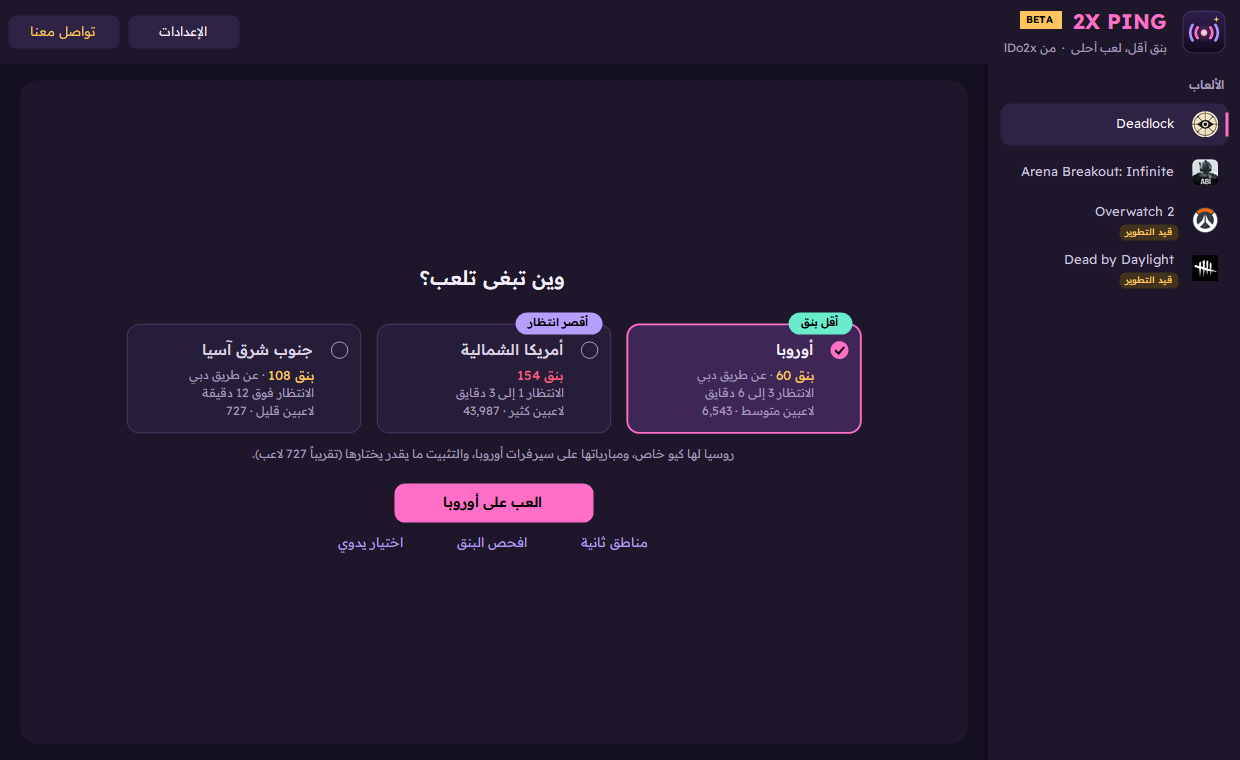
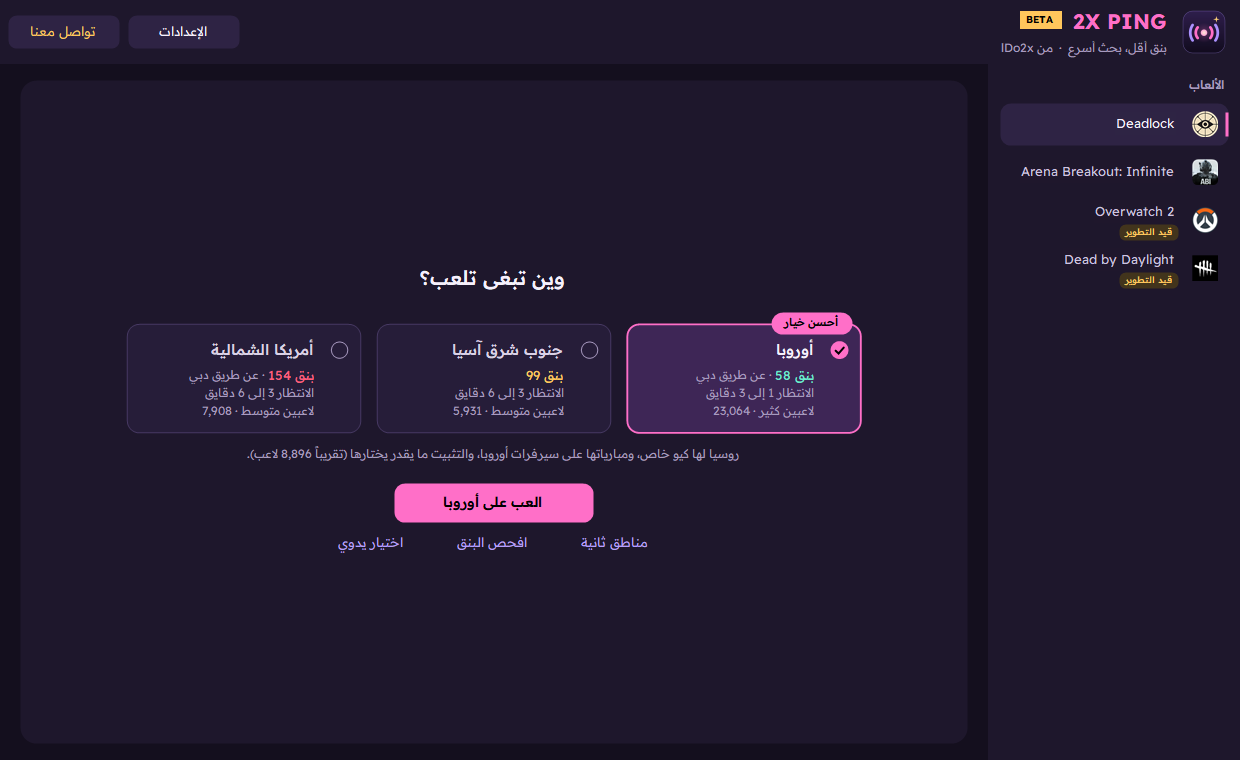
GitHub page for v0.12.0: fresh screenshots, social preview, README match reports row, roadmap
Screenshots are offscreen renders of the main window (Deadlock, simple layout) from a
harness with no network, no processes and a scratch data folder.

diff --git a/docs/social/social-preview.html b/docs/social/social-preview.html
@@ -55,7 +55,7 @@
   <span class="dot" style="left:30px;top:300px"></span><span class="dot" style="left:1010px;top:610px"></span>
 
   <div class="shot"><img src="../screenshot-ar.png" alt=""></div>
-  <div class="chip">مثبّت على فرانكفورت · <span dir="ltr">78 ms</span></div>
+  <div class="chip">مثبّت على أوروبا · <span dir="ltr">58 ms</span></div>
 
   <div class="left">
     <div class="brand">
@@ -66,8 +66,8 @@
     <div class="en">Lower ping, faster queues.</div>
     <div class="games">
       <!-- only the games released in the public version -->
-      <img src="../../assets/games/deadlock.png" alt=""><img src="../../assets/games/overwatch.png" alt="">
-      <img src="../../assets/games/dbd.png" alt=""><img src="../../assets/games/abi.png" alt="">
+      <img src="../../assets/games/deadlock.png" alt=""><img src="../../assets/games/abi.png" alt="">
+      <img src="../../assets/games/overwatch.png" alt=""><img src="../../assets/games/dbd.png" alt="">
     </div>
     <div class="foot"><b>Free</b> · Windows 10/11 · Arabic &amp; English · by <b>lDo2x</b></div>
   </div>

diff --git a/ROADMAP.md b/ROADMAP.md
@@ -3,17 +3,22 @@
 الخطة قابلة للتغيير حسب ملاحظات اللاعبين، وتقدر تصوّت أو تقترح في [Discussions](../../discussions).
 Plans change based on player feedback. Vote or suggest in [Discussions](../../discussions).
 
-## الحين: 0.11 Beta | Now
+## الحين: 0.12 Beta | Now
 - [x] فحص البنق | Ping test
+- [x] شاشة رئيسية أبسط ببطاقة وحدة تقولك وش يصير | A simpler main screen with one status card
 - [x] اختيار السيرفرات في Deadlock وOverwatch 2 وDead by Daylight | Server picker for Deadlock, Overwatch 2 and Dead by Daylight
-- [x] «على أي سيرفر أنا؟» يتحدّث لحاله | "Which server am I on?" updates by itself
+- [x] تثبيت Deadlock صارم يعرف أقصر طريق (مثلاً عن طريق دبي)، والبطاقة تقولك بنقك المتوقع | Strict, route-aware Deadlock lock (e.g. via Dubai), with the expected ping on the card
+- [x] «وين ألعب؟» بصدق، ومع `-condebug` يسمّي سيرفر Deadlock الحقيقي | Honest "where am I playing", naming Deadlock's real datacenter with `-condebug`
+- [x] تقرير كل مباراة يوصلنا لحاله | Automatic match reports
 - [x] اكتشاف المشاكل وإرسالها تلقائي | Problems detected and reported automatically
-- [x] عدد اللاعبين ووقت المباراة (Deadlock) | Player numbers and match time (Deadlock)
-- [x] تحديث بضغطة | One-click updates
-- [x] BOOST عبر وسيط خاص | Relay BOOST through your own VPS
+- [x] عدد لاعبين واقعي حسب وقت اليوم، ووقت الانتظار (Deadlock) | Realistic player numbers by time of day, and wait time (Deadlock)
+- [x] أخف على الجهاز والنت | Lighter on your PC and internet
+- [x] تحديث بضغطة، وأأمن (يرجّع النسخة القديمة لو صار خطأ) | One-click updates, safer (the old version is put back if anything fails)
+- [x] تسريع عن طريق وسيط خاص | Relay speed-up through your own VPS
 
 ## قريباً: 1.0 | Next
-- [ ] إصلاح المشاكل اللي توصلنا من البلاغات التلقائية ومن المختبرين | Fix the problems reported automatically and by testers
+- [ ] إصلاح المشاكل اللي توصلنا من البلاغات وتقارير المباريات ومن المختبرين | Fix the problems found in automatic reports, match reports and by testers
+- [ ] نطلّع أوفرواتش 2 وديد باي دايلايت من «قيد التطوير» | Take Overwatch 2 and Dead by Daylight out of "in development"
 - [ ] قائمة سيرفرات Arena Breakout واختيار سيرفراتها | Arena Breakout server list and server picker
 - [ ] نرجّع الألعاب الثانية بعد ما نتأكد منها: CS2، Dota 2، Valorant، Fortnite، PUBG، Apex، Rocket League | Bring back the other games once verified
 - [ ] تشغيل تلقائي لما تفتح اللعبة | Auto-start when a game launches

diff --git a/README.md b/README.md
@@ -41,8 +41,9 @@
 | ✦ وين تبغى تلعب؟ | بطاقة وحدة تعرض لك المناطق بالبنق ووقت الانتظار وعدد اللاعبين، وزر «العب على ...» يثبّتك عليها |
 | 📶 افحص البنق | بنق كل منطقة في ثانيتين ثلاث، وفي الوضع المتقدم التذبذب والفقد لكل سيرفر |
 | 🔒 تثبيت السيرفرات | في **Deadlock** (و**Overwatch 2** و**Dead by Daylight** قيد التطوير: شغّالين، بس لسا نختبرهم): تختار المناطق اللي تبغاها، والباقي ينحجب |
-| 🧭 تثبيت ذكي في Deadlock | يعرف أقصر طريق لك لشبكة Valve (مثلاً عن طريق دبي)، ولو التثبيت بيرفع بنقك يقولك كم قبل ما تثبّت |
+| 🧭 تثبيت ذكي في Deadlock | يعرف أقصر طريق لك لشبكة Valve (مثلاً عن طريق دبي)، ولو التثبيت بيرفع بنقك يقولك كم قبل ما تثبّت، وبعد التثبيت البطاقة تقولك بنقك المتوقع (مثلاً «تقريباً 58 عن طريق دبي») |
 | ✅ وين أنا دحين؟ | وإنت داخل المباراة، البطاقة تقولك على أي منطقة إنت، وهل هي من اختيارك |
+| 📝 تقرير كل مباراة لحاله | بعد دقيقة من بداية المباراة يرسل تقرير قصير (البنق المتوقع والحقيقي، ووين كانت المباراة) عشان نتأكد إن التثبيت يوفي بوعده. ما عليك تسوي شي |
 | 🛠 يكتشف المشاكل لحاله | لو صار خطأ (زي إنك طحت على سيرفر برا اختيارك) يوصلنا تلقائي بدون ما يقاطعك |
 | 👥 عدد اللاعبين | كم لاعب في كل منطقة تقريباً، وكم بتستنى عشان تلقى مباراة (Deadlock) |
 | 🕒 في شريط المهام | صغّره وإنت تلعب: يبقى في شريط المهام والتثبيت شغّال، وتشوف بنقك لما تحط الماوس على زره، ويومض لو في تنبيه مهم |

diff --git a/README.en.md b/README.en.md
@@ -39,9 +39,10 @@ Requires **Windows 10 or 11**. Nothing to install, and after that updates are on
 | ✦ Where do you want to play? | One card shows your regions with ping, wait time and players; **Play in ...** locks you to them |
 | 📶 Ping test | Every region in 2-3 seconds; the Advanced layout adds jitter and packet loss per server |
 | 🔒 Region lock | **Deadlock** (and **Overwatch 2** and **Dead by Daylight**, in development: they work, still being tested): pick your regions and lock out the rest |
-| 🧭 Smart Deadlock lock | Knows your shortest way into Valve's network (for example through Dubai), and tells you before you lock if the lock would raise your ping, and by how much |
+| 🧭 Smart Deadlock lock | Knows your shortest way into Valve's network (for example through Dubai), and tells you before you lock if the lock would raise your ping, and by how much; once locked, the card shows the ping to expect (e.g. "about 58 ms via Dubai") |
 | ✅ Where am I playing? | While you're in a match, the card says which region you're on and whether it's one you picked |
 | 👥 Player numbers | Estimated players per region and expected time to find a match (Deadlock) |
+| 📝 Match reports by themselves | About a minute into each match a short report (expected vs real ping, where the match was) checks the lock keeps its promise. Nothing for you to do |
 | 🛠 Finds problems by itself | Errors (like landing on a server outside your lock) reach us automatically, without interrupting you |
 | 🎛 Your way | Pick your games on first launch; Simple layout for everyday players, Advanced with every tool |
 | 🕒 In the taskbar | Minimize it while you play: the lock keeps working, hovering its taskbar button shows your live ping, and important notices flash it |
